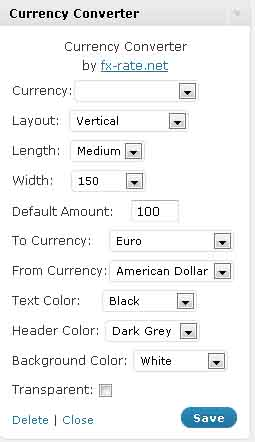
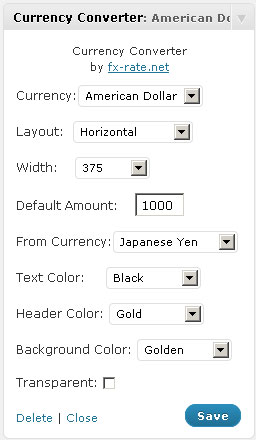
v2.1.1
git-svn-id: https://plugins.svn.wordpress.org/currency-converter/tags/2.1.1@400270 b8457f37-d9ea-0310-8a92-e5e31aec5664

diff --git a/currency-converter.php b/currency-converter.php
@@ -1,7 +1,7 @@
 <?php
 /*
 Plugin Name: Currency Converter
-Description: Currency Converter for any currency in the world. You can choose the default currency for the converter.
+Description: Currency Converter for any currency in the world. Allows selection of colors, size, layout, default currencies and values.
 Author: enclick
 Version: 2.1
 Author URI: http://fx-rate.net
@@ -183,7 +183,7 @@ class currency_converter extends WP_Widget
        		// Get currency, length and label type 
 
        		echo '<p><label for="' .$this->get_field_id( 'currency_code' ). '">Currency:'.
-               	     '<select id="' .$this->get_field_id( 'currency_code' ). '" name="' .$this->get_field_name( 'currency_code' ). 'currency-code" style="width:125px">';
+               	     '<select id="' .$this->get_field_id( 'currency_code' ). '" name="' .$this->get_field_name( 'currency_code' ). '" style="width:125px">';
       		echo '<OPTION value=""></option>';
      		cc_print_thecurrency_list($currency_code, $currency_list);
       		echo '</select></label></p>';
@@ -291,7 +291,6 @@ class currency_converter extends WP_Widget
 	// Get values 
       	extract($args);
 
-
       	// Extract value from vars
       	$currency_code = htmlspecialchars($instance['currency_code'], ENT_QUOTES);
 	$currency_name = htmlspecialchars($instance['currency_name'], ENT_QUOTES);
@@ -319,12 +318,6 @@ class currency_converter extends WP_Widget
 
 	$text_color = str_replace("#","",$text_color);
 
-	echo $before_widget; 
-
-
-	// Output title
-	echo $before_title . $title . $after_title; 
-	
 
 	// Output calculator
 
@@ -363,9 +356,14 @@ class currency_converter extends WP_Widget
 	#		OUTPUT HTML
 	#
 
+	echo $before_widget; 
+
+
+	// Output title
+	echo $before_title . $title . $after_title; 
 
 	echo '<!-Currency Converter widget - HTML code - fx-rates.net -->
-	     <div  style="width:'.$width.'px; background-color:'.$background_color.';border:2px solid #888;text-align:center;margin: 0px; padding: 0px;margin-top:10px!important">';
+	     <div  style="width:'.$width.'px; background-color:'.$background_color.';border:2px solid #888;text-align:center;margin: auto; padding: 0px;margin-top:10px!important">';
 
 	echo '<div style="margin: 0px; padding: 0px;text-align:center;align:center;background-color:'.$border_color. ';border-bottom:1px solid #888;width:100%">
 	     <a class="'.$calc_label.'label" 

diff --git a/functions.php b/functions.php
@@ -50,7 +50,7 @@ function cc_print_thelength_list($size){
 // This function print for selector widget width
 
 function cc_print_thewidth_list($size){
-	 $size_list = array("60","85","100","128","140","150","180","200","240","275","300","320","375","400","474","500","525","550","574","600","650","700");
+	 $size_list = array("60","85","100","128","140","150","160","165","170","175","180","185","190","200","210","220","230","240","250","275","300","320","375","400","474","500","525","550","574","600","650","700");
 	 echo "\n";
 	foreach($size_list as $isize)
 	{
